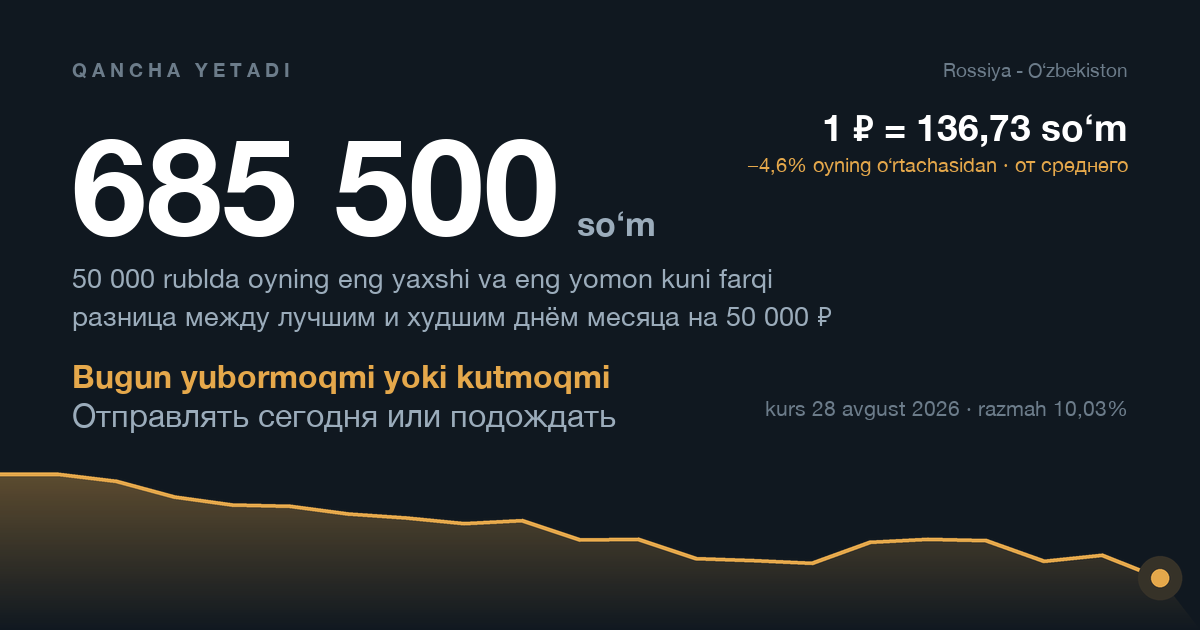
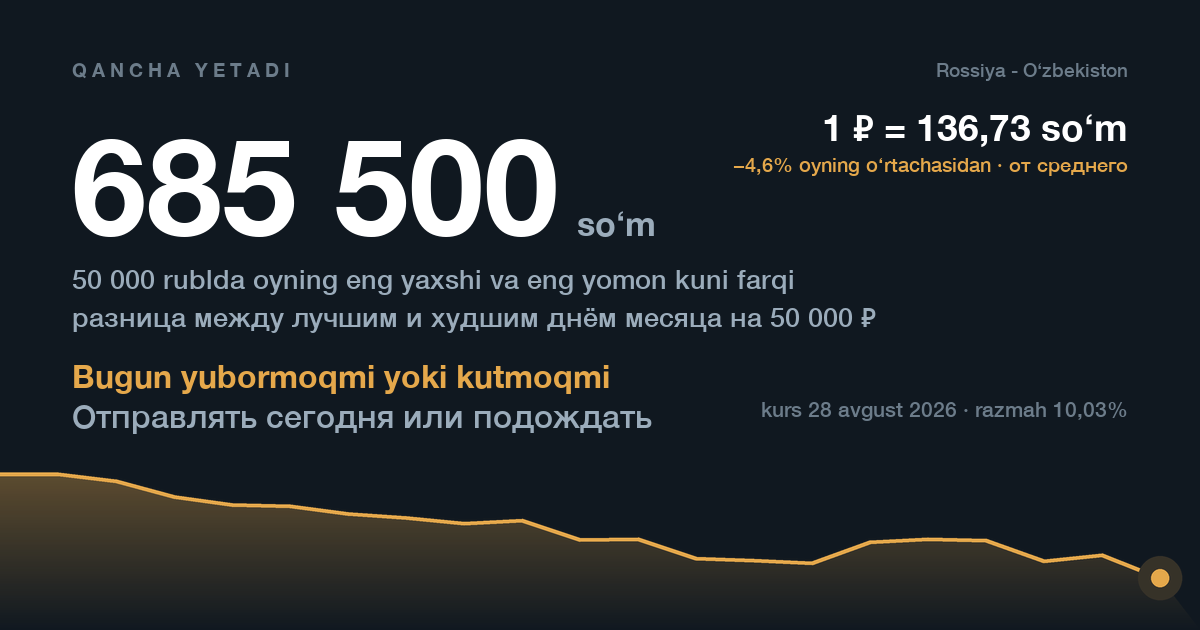
fix(oblozhka): «от срөднөго» на картинке, которую люди пересылают
Найдено глазами, на самой обложке. Обычное начертание Helvetica Neue на
двадцатом кегле закрывает просвет у «е»: перекладина доходит до правого
края, и «от среднего» читается как «от срөднөго». То же самое случалось с
латинской «e» — «HelvөticaNөuө». Знак рубля при этом на месте, кириллица
на месте, прежние проверки такой шрифт пропускали. Картинка уходит в
чаты, и первое, что человек видит, — русское слово с ошибкой.

Обычный вес теперь берётся СРЕДНИМ начертанием той же гарнитуры: буква
рисуется буквой, а картинка остаётся собранной из одной гарнитуры.

По дороге чуть не сделали хуже. PT Sans рисует кириллицу лучше всех, и
он тут стоял первым ровно полчаса — пока снимок не показал «so⊠m» и
«O⊠zbekiston»: в нём нет `ʻ` (U+02BB), а это не апостроф, а часть
узбекской буквы. Поэтому:

- **проверка букв стала настоящей.** Спрашивала «есть ли хоть
  что-нибудь», а у пустого квадрата тоже есть очертания — заглушка её
  проходила. Теперь картинка буквы сравнивается с картинкой знака из
  частной области: его нет ни в одном шрифте, значит это и есть заглушка;
- **требуются три буквы, а не одна:** ₽, узбекская `ʻ` и кириллица.
  Про ₽ узнали 27 августа на Arial, про `ʻ` — сегодня на PT Sans;
- **добавлена мера читаемости «е».** «е» — это «о» с короткой
  перекладиной, «ө» — «о» с перекладиной во всю ширину, значит у
  исправного шрифта площадь «е» ближе к «о», чем к «ө». У Helvetica
  Neue Regular на двадцатом кегле «е» и «ө» расходятся на полтора
[…]

diff --git a/bot/sobrat_oblozhku.py b/bot/sobrat_oblozhku.py
@@ -71,6 +71,16 @@ MESYACY = ["yanvar", "fevral", "mart", "aprel", "may", "iyun",
 # находился вовсе и сборка обложки падала с SystemExit.
 #
 # Элемент — либо путь, либо пара (путь, номер начертания внутри .ttc).
+# На macOS обычный вес берётся СРЕДНИМ начертанием Helvetica Neue, а не
+# обычным, и это не вкусовщина. Обычное на двадцатом кегле закрывает
+# просвет у «е»: на обложке, собранной 31.08.2026, «от среднего»
+# читалось как «от срөднөго», и то же самое случалось с латинской «e».
+# Среднее рисует букву как букву. Поймано глазами, на той самой картинке,
+# которую люди пересылают в чаты.
+#
+# PT Sans сюда не годится, хотя кириллицу рисует лучше всех: в нём нет
+# `ʻ` (U+02BB), а это не апостроф, а часть узбекской буквы. «soʻm» с
+# пустым квадратом посреди слова хуже, чем неидеальная «е».
 SHRIFTY_ZHIRNYE = [
     "C:/Windows/Fonts/segoeuib.ttf",
     "C:/Windows/Fonts/seguisb.ttf",
@@ -81,6 +91,7 @@ SHRIFTY_ZHIRNYE = [
 
 SHRIFTY_OBYCHNYE = [
     "C:/Windows/Fonts/segoeui.ttf",
+    ("/System/Library/Fonts/HelveticaNeue.ttc", 10),     # Helvetica Neue Medium
     ("/System/Library/Fonts/HelveticaNeue.ttc", 0),      # Helvetica Neue
     ("/System/Library/Fonts/Supplemental/PTSans.ttc", 0),  # PT Sans
     "/usr/share/fonts/truetype/dejavu/DejaVuSans.ttf",
@@ -92,14 +103,79 @@ SHRIFTY_OBYCHNYE = [
 # подставили Arial: кириллица есть, рубля нет.
 PROVERKA_RUBLYA = "\u20bd"
 
+# `ʻ` — не апостроф, а часть узбекской буквы `oʻ`.
+PROVERKA_UZ = "\u02bb"
 
-def _umeet_rubl(fnt):
-    """True, если шрифт рисует ₽, а не пустой квадрат."""
+# Знака из частной области нет ни в одном шрифте: его картинка и есть
+# «пустой квадрат» этого шрифта.
+PUSTOY_KVADRAT = "\ue000"
+
+
+# Самый мелкий кегль обложки. На нём и проверяем буквы: то, что читается
+# на двадцатом, прочтётся и на сто тридцать четвёртом, а наоборот — нет.
+KEGL_PROVERKI = 20
+
+
+def _chernila(fnt, bukva):
+    """Сколько «чернил» уходит на букву. Мера площади, а не формы."""
     try:
-        maska = fnt.getmask(PROVERKA_RUBLYA)
-        return maska.getbbox() is not None
+        return sum(bytes(fnt.getmask(bukva, mode="L"))) / 255.0
+    except Exception:
+        return None
+
+
+def _e_ostayotsya_e(zapis):
+    """«е» на мелком кегле обязана остаться «е», а не превратиться в «ө».
+
+    Зачем. Обложка печатает русскую строку двадцатым кеглем, и Helvetica
+    Neue на нём закрывает просвет: перекладина доходит до правого края, и
+    «от среднего» читается как «от срөднөго». Знак рубля при этом на
+    месте, кириллица на месте — прежние проверки такой шрифт пропускали.
+    Картинка уходит в чаты, и первое, что человек видит, — слово с
+    ошибкой.
+
+    Как меряем. «е» — это «о» с короткой перекладиной, «ө» — «о» с
+    перекладиной во всю ширину. Значит у исправного шрифта площадь «е»
+    ближе к «о», чем к «ө». У Helvetica Neue на двадцатом кегле «е» и «ө»
+    расходятся на полтора процента, а «е» и «о» — на шестнадцать: буквы
+    стали одинаковыми, и никакой другой признак этого не покажет.
+    """
+    fnt = _otkryt(zapis, KEGL_PROVERKI)
+    if fnt is None:
+        return False
+    e, o_s_chertoy, o = (_chernila(fnt, "е"), _chernila(fnt, "ө"),
+                         _chernila(fnt, "о"))
+    if not e or not o_s_chertoy or not o:
+        return False       # нет кириллицы — обложка двуязычная, не годится
+    return abs(e - o) / o < abs(e - o_s_chertoy) / o_s_chertoy
+
+
+def _est_bukva(fnt, bukva):
+    """True, если шрифт рисует именно эту букву, а не пустой квадрат.
+
+    Прежняя проверка спрашивала «есть ли хоть что-нибудь», и заглушка её
+    проходила: у пустого квадрата тоже есть очертания. Сравниваем с
+    картинкой знака из частной области — его нет ни в одном шрифте,
+    значит его картинка и есть заглушка этого шрифта.
+    """
+    try:
+        nasha = bytes(fnt.getmask(bukva, mode="L"))
+        zaglushka = bytes(fnt.getmask(PUSTOY_KVADRAT, mode="L"))
+        return bool(nasha) and any(nasha) and nasha != zaglushka
     except Exception:
         return False
+
+
+def _umeet_bukvy(fnt):
+    """Шрифт обязан рисовать ₽, узбекскую `ʻ` и кириллицу.
+
+    Обложка двуязычная и денежная: без любого из трёх в чат уходит
+    картинка с дырой посреди слова или числа. Про ₽ это узнали
+    27.08.2026 на Arial, про `ʻ` — 31.08.2026 на PT Sans.
+    """
+    return (_est_bukva(fnt, PROVERKA_RUBLYA)
+            and _est_bukva(fnt, PROVERKA_UZ)
+            and _est_bukva(fnt, "ы"))
 
 
 def _otkryt(zapis, razmer):
@@ -127,18 +203,34 @@ def shrift(razmer, zhirny=True):
     zapasnoy = SHRIFTY_OBYCHNYE if zhirny else SHRIFTY_ZHIRNYE
 
     bez_rublya = None
+    nechitaemye = None
     for zapis in nuzhnyy + zapasnoy:
         fnt = _otkryt(zapis, razmer)
         if fnt is None:
             continue
-        if _umeet_rubl(fnt):
-            return fnt
-        if bez_rublya is None:
-            bez_rublya = fnt
+        if not _umeet_bukvy(fnt):
+            if bez_rublya is None:
+                bez_rublya = fnt
+            continue
+        # Буквы проверяем на САМОМ МЕЛКОМ кегле обложки, а не на текущем:
+        # иначе крупные надписи достались бы одному шрифту, мелкие —
+        # другому, и картинка собралась бы из двух гарнитур.
+        if not _e_ostayotsya_e(zapis):
+            if nechitaemye is None:
+                nechitaemye = fnt
+            continue
+        return fnt
+
+    if nechitaemye is not None:
+        print("  ВНИМАНИЕ: в найденном шрифте «е» на мелком кегле "
+              "неотличима от «ө» — русские слова на обложке будут "
+              "читаться с ошибкой", flush=True)
+        return nechitaemye
 
     if bez_rublya is not None:
-        print("  ВНИМАНИЕ: в найденном шрифте нет знака ₽ — на обложке будет "
-              "пустой квадрат вместо него", flush=True)
+        print("  ВНИМАНИЕ: в найденном шрифте нет то ли ₽, то ли узбекской "
+              "`ʻ`, то ли кириллицы — на обложке будет пустой квадрат "
+              "посреди слова", flush=True)
         return bez_rublya
     raise SystemExit("не найден ни один шрифт с кириллицей — обложку не собрать")
 

diff --git a/bot/test_oblozhka.py b/bot/test_oblozhka.py
@@ -1,0 +1,119 @@
+# -*- coding: utf-8 -*-
+"""Проверки обложки: шрифт и буквы, которые он обязан рисовать.
+
+Зачем отдельный набор. Обложка — единственная картинка продукта, которая
+уходит наружу: её видит каждый, кому переслали приложение. Проверить её
+прогоном нельзя (это картинка), а глазами смотрят раз в неделю — и за
+эту неделю она уже дважды уходила в чаты испорченной:
+
+    27.08.2026  на macOS подставился Arial: кириллица есть, ₽ нет —
+                посреди «50 000 ₽» стоял пустой квадрат;
+    31.08.2026  обычное начертание Helvetica Neue на двадцатом кегле
+                закрывает просвет у «е», и «от среднего» читалось как
+                «от срөднөго». Знак рубля при этом был на месте.
+
+Оба раза дефект был в ШРИФТЕ, а не в коде, и оба раза его нашли глазами.
+Здесь то же самое проверяется числом.
+
+    cd app/bot && py test_oblozhka.py
+"""
+import os
+import sys
+
+sys.path.insert(0, os.path.dirname(os.path.abspath(__file__)))
+
+try:
+    from PIL import ImageFont
+except ImportError:
+    print("Pillow не установлен — проверки обложки НЕ выполнены.")
+    sys.exit(2)
+
+import sobrat_oblozhku as obl
+
+proshlo, upalo, preduprezhdeniya = [], [], []
+
+
+def proverka(imya, uslovie, podskazka=""):
+    if uslovie:
+        proshlo.append(imya)
+    else:
+        upalo.append(imya + ("  << " + podskazka if podskazka else ""))
+
+
+def preduprezhdenie(imya, podskazka=""):
+    preduprezhdeniya.append(imya + ("  << " + podskazka if podskazka else ""))
+
+
+# ── Шрифт, который выберется на этой машине ──────────────────────────
+
+for kegl, zhirny, imya in ((obl.KEGL_PROVERKI, False, "обычный"),
+                           (obl.KEGL_PROVERKI, True, "жирный")):
+    try:
+        fnt = obl.shrift(kegl, zhirny=zhirny)
+    except SystemExit as e:
+        proverka("шрифт %s найден" % imya, False, str(e))
+        continue
+
+    proverka("шрифт %s найден" % imya, fnt is not None)
+    proverka("%s рисует ₽" % imya, obl._est_bukva(fnt, obl.PROVERKA_RUBLYA),
+             "посреди суммы будет пустой квадрат")
+    proverka("%s рисует узбекскую ʻ" % imya, obl._est_bukva(fnt, obl.PROVERKA_UZ),
+             "«soʻm» уйдёт в чаты с квадратом посреди слова")
+    proverka("%s рисует кириллицу" % imya, obl._est_bukva(fnt, "ы"),
+             "обложка двуязычная")
+
+# ── «е» обязана остаться «е» ─────────────────────────────────────────
+#
+# Мера: «е» — это «о» с короткой перекладиной, «ө» — «о» с перекладиной во
+# всю ширину. У исправного шрифта площадь «е» ближе к «о», чем к «ө».
+
+for zapis in obl.SHRIFTY_OBYCHNYE + obl.SHRIFTY_ZHIRNYE:
+    put = zapis[0] if isinstance(zapis, tuple) else zapis
+    if not os.path.exists(put):
+        continue
+    fnt = obl._otkryt(zapis, obl.KEGL_PROVERKI)
+    if fnt is None or not obl._umeet_bukvy(fnt):
+        continue
+    # Шрифт из списка, который умеет все буквы, но рисует «е» как «ө», не
+    # запрещён — он просто должен стоять ПОСЛЕ читаемого. Проверяем, что
+    # выбор до него не доходит.
+    if not obl._e_ostayotsya_e(zapis):
+        vybran = obl.shrift(obl.KEGL_PROVERKI, zhirny=False)
+        proverka("нечитаемый на мелком кегле шрифт не выбран",
+                 (vybran.path, vybran.index) != (put, zapis[1] if isinstance(zapis, tuple) else 0),
+                 "выбран %s — «е» на нём неотличима от «ө»" % put)
+
+# Мера должна уметь сказать «нет»: на macOS обычное начертание Helvetica
+# Neue — тот самый случай, ради которого она написана.
+_HELVETICA = ("/System/Library/Fonts/HelveticaNeue.ttc", 0)
+if os.path.exists(_HELVETICA[0]):
+    proverka("мера ловит закрытую «е»", obl._e_ostayotsya_e(_HELVETICA) is False,
+             "на этом начертании «от среднего» читается как «от срөднөго»")
+else:
+    preduprezhdenie("нечего проверить мерой", "Helvetica Neue есть только на macOS")
+
+# Заглушка не считается буквой: у пустого квадрата тоже есть очертания, и
+# прежняя проверка «есть ли хоть что-нибудь» его пропускала.
+_PT = ("/System/Library/Fonts/Supplemental/PTSans.ttc", 0)
+if os.path.exists(_PT[0]):
+    pt = obl._otkryt(_PT, obl.KEGL_PROVERKI)
+    proverka("пустой квадрат не считается буквой",
+             obl._est_bukva(pt, obl.PROVERKA_UZ) is False,
+             "в PT Sans нет ʻ, но заглушка рисуется")
+else:
+    preduprezhdenie("нечего проверить заглушкой", "PT Sans есть только на macOS")
+
+
+# ── Итог ─────────────────────────────────────────────────────────────
+
+print("Пройдено: %d" % len(proshlo))
+for p in proshlo:
+    print("  + " + p)
+for p in preduprezhdeniya:
+    print("  ~ " + p)
+if upalo:
+    print("\nПРОВАЛЕНО: %d" % len(upalo))
+    for p in upalo:
+        print("  - " + p)
+    sys.exit(1)
+print("\nВсе проверки зелёные.")

diff --git a/proverit.py b/proverit.py
@@ -408,6 +408,7 @@ def main():
         proverit_rabotu_github(),
         zapustit("сбор курсов (rates.py)", [sys.executable, "test_rates.py"], BOT),
         zapustit("вердикт (sovet.py)", [sys.executable, "test_sovet.py"], BOT),
+        zapustit("обложка и шрифты", [sys.executable, "test_oblozhka.py"], BOT),
         zapustit("бот и /api/rates", [sys.executable, "test_bot.py"], BOT),
         zapustit("паритет py и js", [sys.executable, "test_parity.py"], BOT,
                  net_node, "не найден node"),
